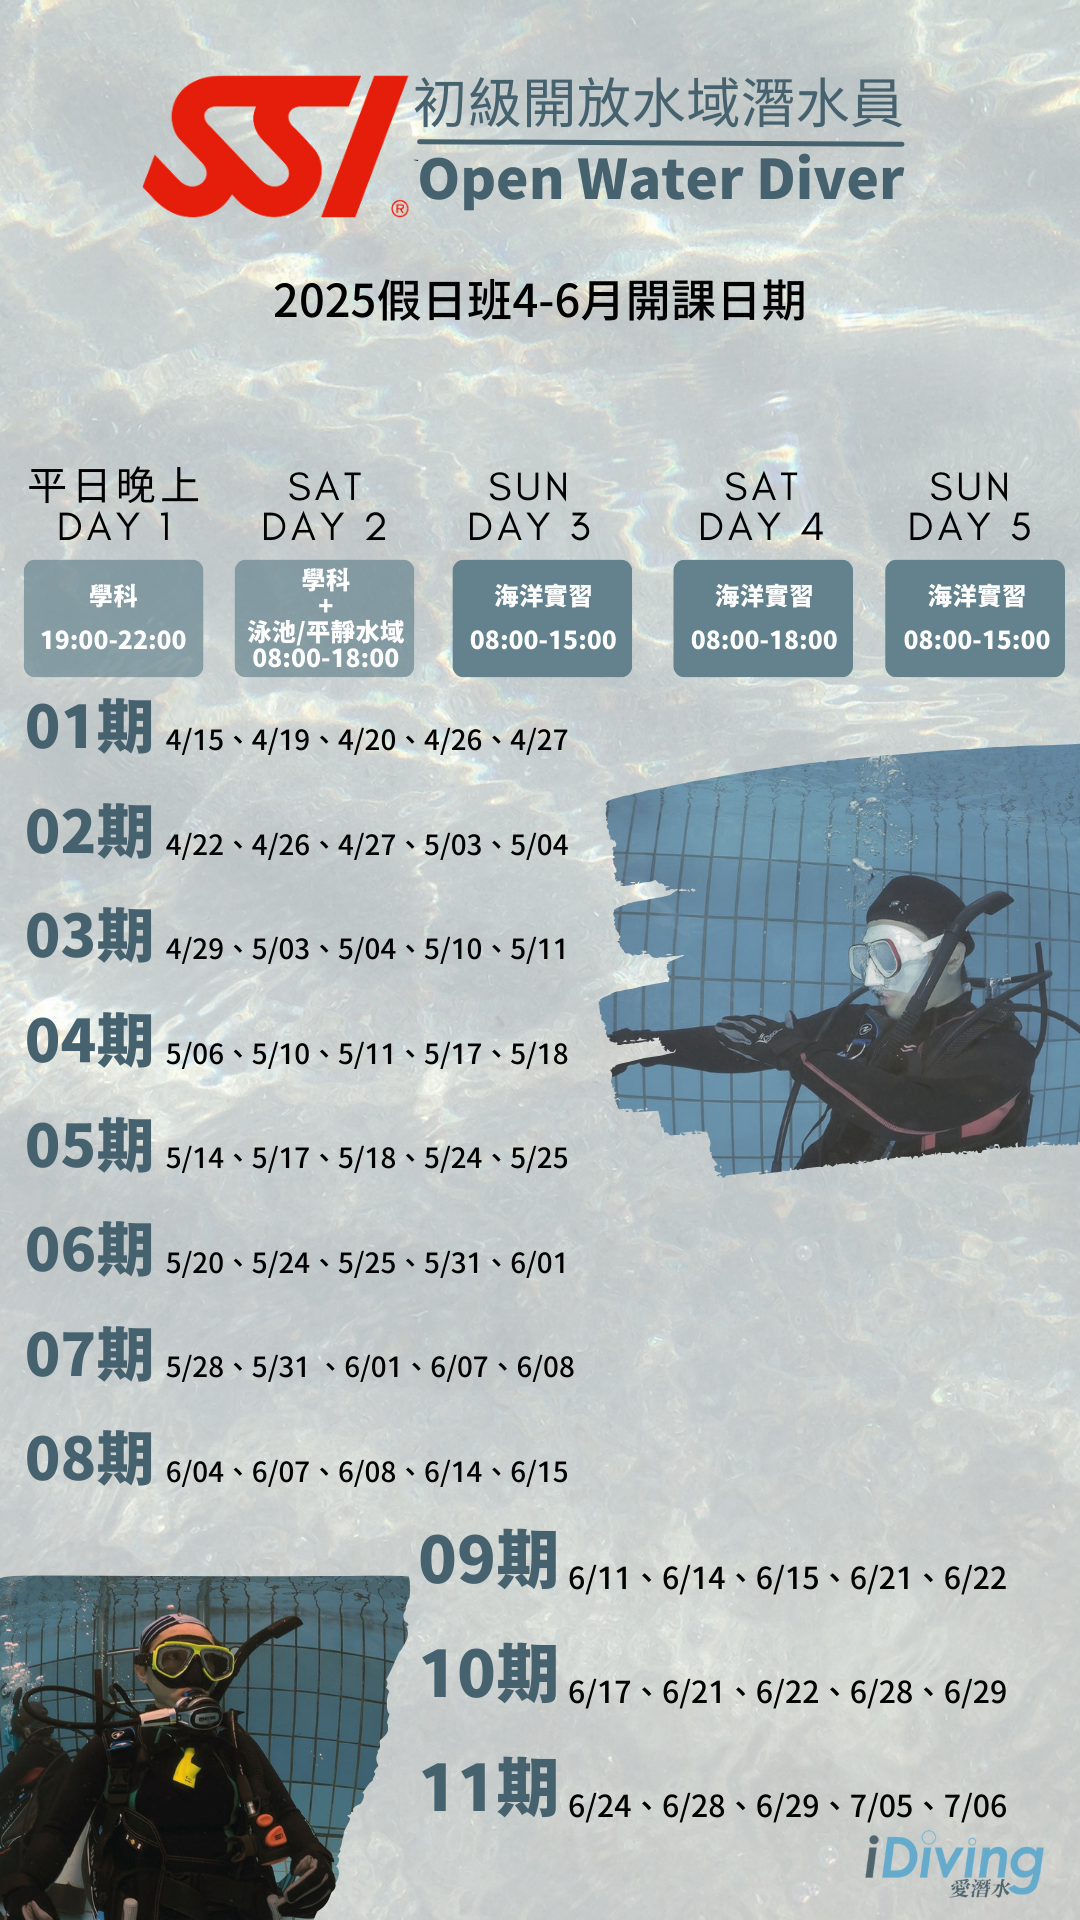
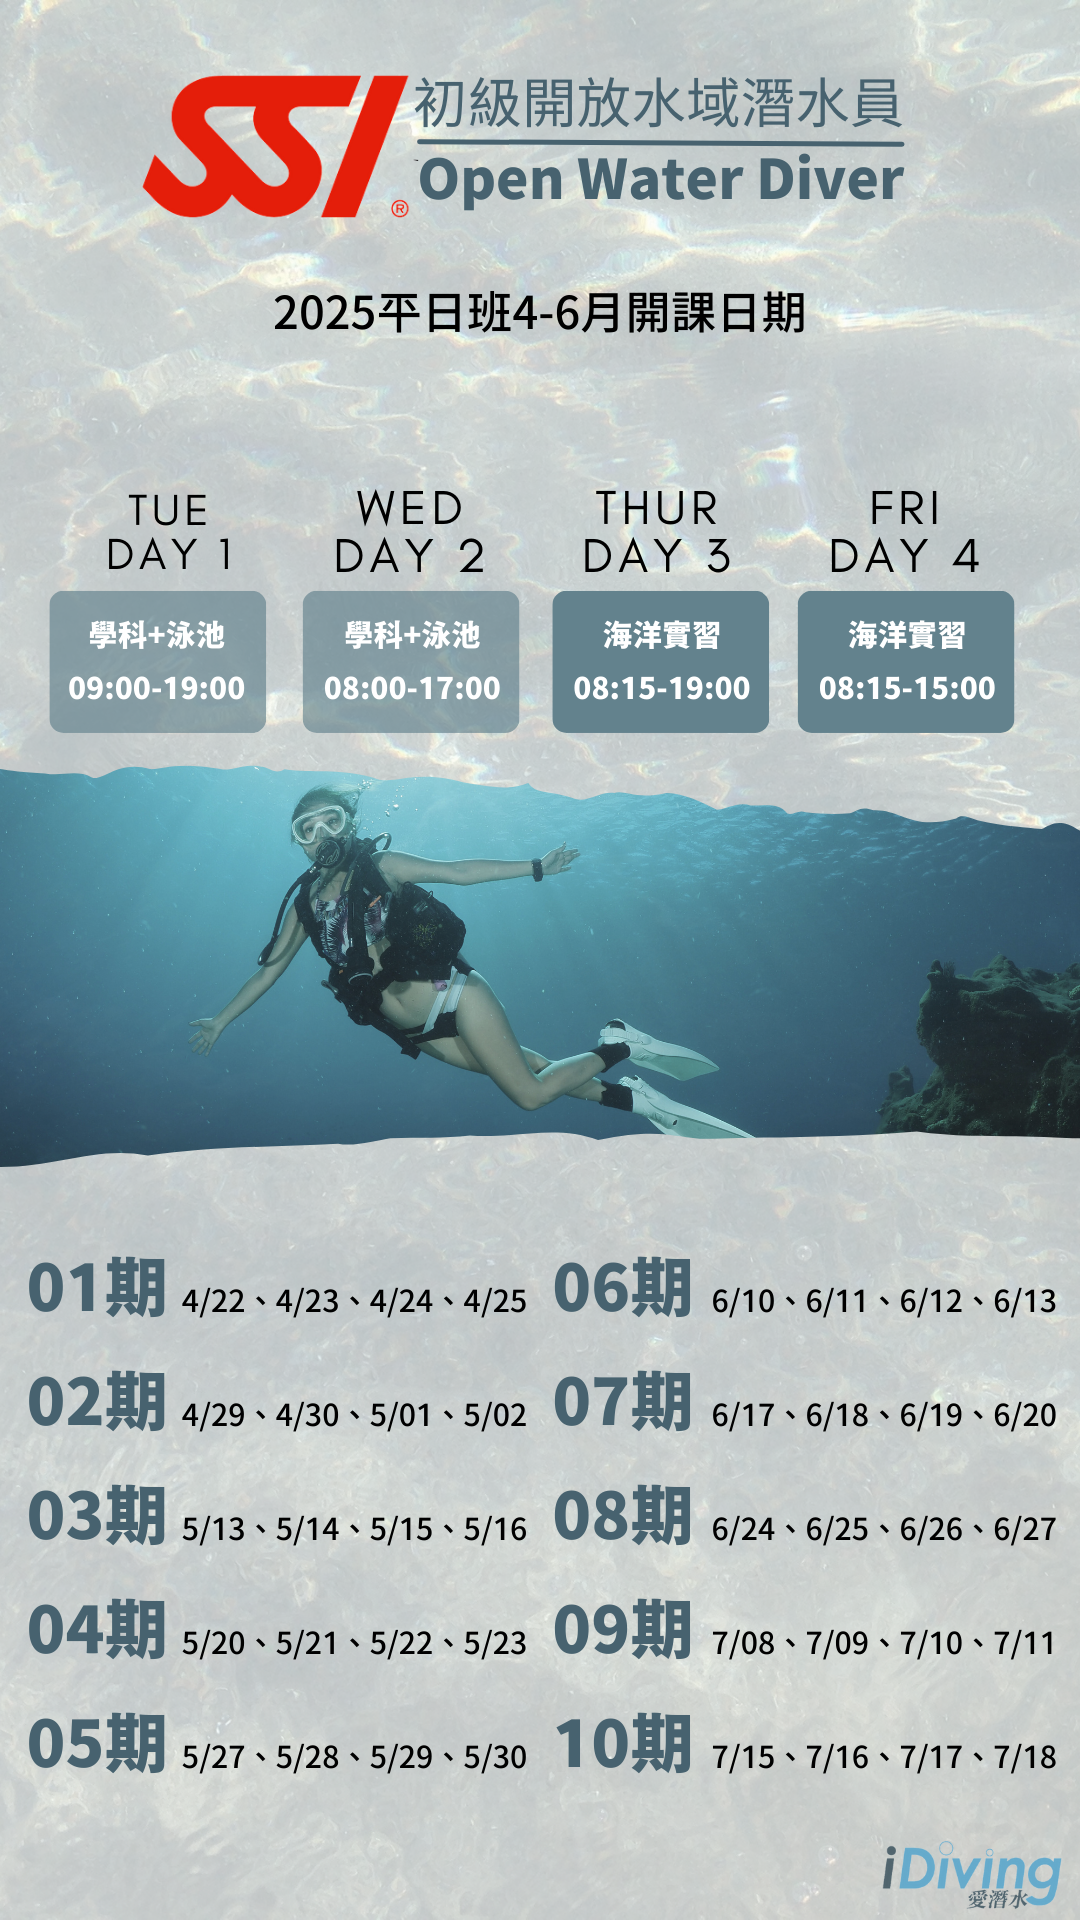
水肺課程更新

diff --git a/src/app/pages/c120/c120.component.html b/src/app/pages/c120/c120.component.html
@@ -106,14 +106,13 @@
                     </td>
                     <td>
                       <p class="fs-6">
-                        DAY 1 | 學科+泳池訓練 09:00~19:00<br>
+                        DAY 1 | 學科 19:00~22:00<br>
                       </p>
                       <hr>
                       <p class="fs-6">
                         潛水物理學<br>
-                        裝備介紹與組裝練習<br>
-                        贈品套量<br>
-                        潛水技巧練習
+                        潛水生理學<br>
+                        贈品套量
                       </p>
                     </td>
                   </tr>
@@ -123,12 +122,12 @@
                     <td>
                       <p class="fs-6">
                         <br>
-                        DAY 2 | 學科+泳池訓練 08:00~17:00<br>
+                        DAY 2 | 學科+泳池/平靜水域 08:00~18:00<br>
                       </p>
                       <hr>
                       <p class="fs-6">
-                        潛水生理學<br>
                         海洋生物與環境<br>
+                        裝備組裝與下水前檢查<br>
                         潛水技巧練習<br>
                         狀況模擬及障礙排除
                       </p>
@@ -139,13 +138,12 @@
                     </td>
                     <td>
                       <p class="fs-6">
-                        <br>DAY 3 | 開放水域08:15~19:00<br>
+                        <br>DAY 3 | 平靜/開放水域 08:00~15:00<br>
                       </p>
                       <hr>
                       <p class="fs-6">
                         潛水技巧練習<br>
                         水中障礙排除<br>
-                        潛水日誌記錄<br>
                         裝備清洗
                       </p>
                     </td>
@@ -155,13 +153,28 @@
                     </td>
                     <td>
                       <p class="fs-6">
-                        <br>DAY 4 | 開放水域 08:15~15:00<br>
+                        <br>DAY 4 | 開放水域 08:00~18:00<br>
                       </p>
                       <hr>
                       <p class="fs-6">
                         潛水技巧複習<br>
                         狀況模擬及障礙排除<br>
                         水中方向辨認<br>
+                        共生練習<br>
+                        潛水日誌記錄<br>
+                        學科考試
+                      </p>
+                    </td>
+                  </tr>
+                  <tr>
+                    <td>
+                    </td>
+                    <td>
+                      <p class="fs-6">
+                        <br>DAY 5 | 開放水域 08:00~15:00<br>
+                      </p>
+                      <hr>
+                      <p class="fs-6">
                         Fun Dive體驗
                       </p>
                     </td>
@@ -585,13 +598,14 @@
                     </td>
                     <td>
                       <p class="fs-6">
-                        DAY 1 | 學科+泳池訓練 09:00~19:00<br>
+                        DAY 1 | 學科+泳池/平靜水域 08:00~18:00<br>
                       </p>
                       <hr>
                       <p class="fs-6">
                         潛水物理學<br>
-                        裝備介紹與組裝練習<br>
+                        潛水生理學<br>
                         贈品套量<br>
+                        裝備組裝與下水前檢查<br>
                         潛水技巧練習
                       </p>
                     </td>
@@ -602,29 +616,13 @@
                     <td>
                       <p class="fs-6">
                         <br>
-                        DAY 2 | 學科+泳池訓練 08:00~17:00<br>
+                        DAY 2 | 學科+平靜/開放水域 09:00~19:00<br>
                       </p>
                       <hr>
                       <p class="fs-6">
-                        潛水生理學<br>
                         海洋生物與環境<br>
+                        狀況模擬及障礙排除<br>
                         潛水技巧練習<br>
-                        狀況模擬及障礙排除
-                      </p>
-                    </td>
-                  </tr>
-                  <tr>
-                    <td>
-                    </td>
-                    <td>
-                      <p class="fs-6">
-                        <br>DAY 3 | 開放水域08:15~19:00<br>
-                      </p>
-                      <hr>
-                      <p class="fs-6">
-                        潛水技巧練習<br>
-                        水中障礙排除<br>
-                        潛水日誌記錄<br>
                         裝備清洗
                       </p>
                     </td>
@@ -634,13 +632,28 @@
                     </td>
                     <td>
                       <p class="fs-6">
-                        <br>DAY 4 | 開放水域 08:15~15:00<br>
+                        <br>DAY 3 | 開放水域 09:00~19:00<br>
                       </p>
                       <hr>
                       <p class="fs-6">
                         潛水技巧複習<br>
-                        狀況模擬及障礙排除<br>
+                        水中障礙排除<br>
                         水中方向辨認<br>
+                        共生練習<br>
+                        潛水日誌記錄<br>
+                        學科考試
+                      </p>
+                    </td>
+                  </tr>
+                  <tr>
+                    <td>
+                    </td>
+                    <td>
+                      <p class="fs-6">
+                        <br>DAY 4 | 開放水域 09:00~16:00<br>
+                      </p>
+                      <hr>
+                      <p class="fs-6">
                         Fun Dive體驗
                       </p>
                     </td>
